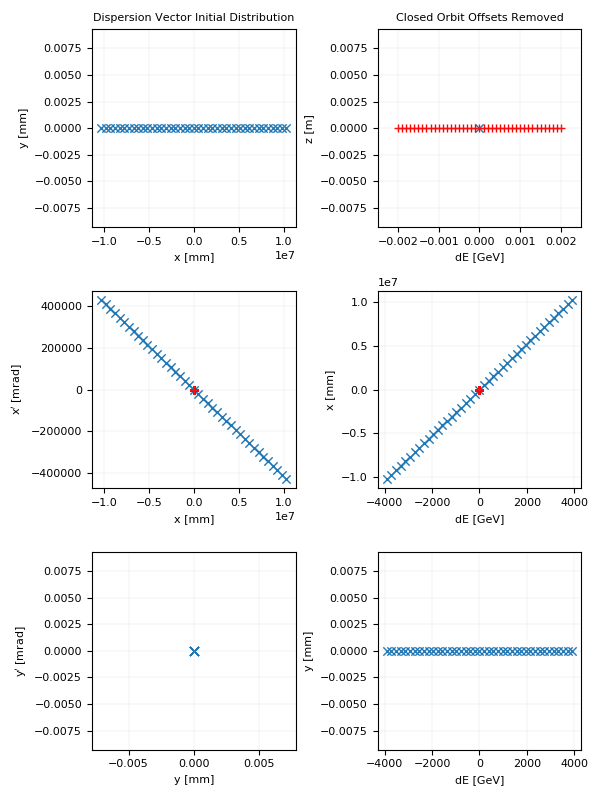
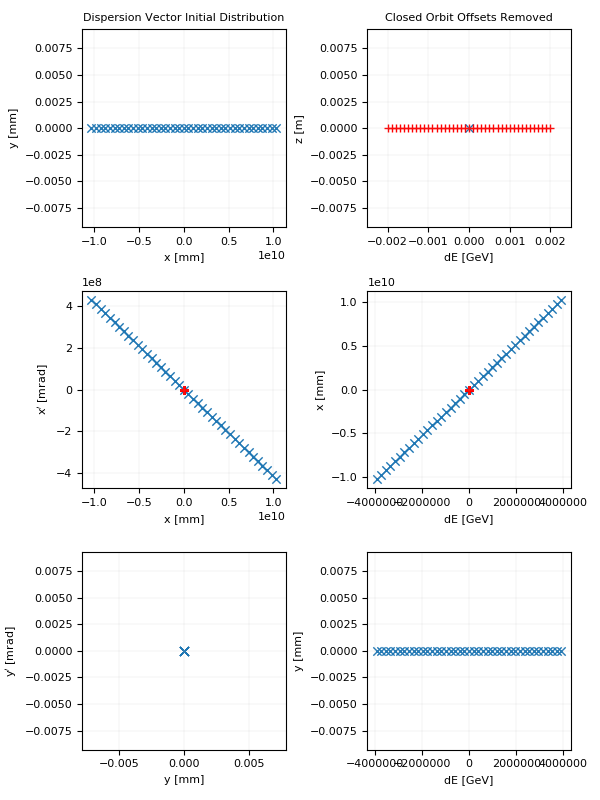
03: 00: lib/pyOrbit_GenerateInitialDistribution.py updated: testing dispersion vector

diff --git a/03_New_Distn_Tests/00_Master/lib/pyOrbit_GenerateInitialDistribution.py b/03_New_Distn_Tests/00_Master/lib/pyOrbit_GenerateInitialDistribution.py
@@ -1001,9 +1001,12 @@ def generate_initial_dispersion_vector_distribution(parameters, Lattice, dpp=2E-
 				delta_p_over_p = (i * step) - dpp
 
 				# ~ dE[i] = (parameters['energy']) * parameters['beta']**2 * delta_p_over_p * 1E-3
-				dE[i] = (parameters['energy']) * parameters['beta']**2 * delta_p_over_p
-				x[i] = closedOrbitx['x0'] + dispersionx['etax0'] * dE[i]
-				xp[i] = closedOrbitx['xp0'] + dispersionx['etapx0'] * dE[i]
+				# ~ x[i] = closedOrbitx['x0'] + dispersionx['etax0'] * dE[i]
+				# ~ xp[i] = closedOrbitx['xp0'] + dispersionx['etapx0'] * dE[i]
+				
+				dE[i] = (parameters['energy']) * parameters['beta']**2 * delta_p_over_p * 1E-3
+				x[i] = closedOrbitx['x0'] + dispersionx['etax0'] * delta_p_over_p
+				xp[i] = closedOrbitx['xp0'] + dispersionx['etapx0'] * delta_p_over_p
 
 				y[i] = closedOrbity['y0']
 				yp[i] = closedOrbity['yp0']
